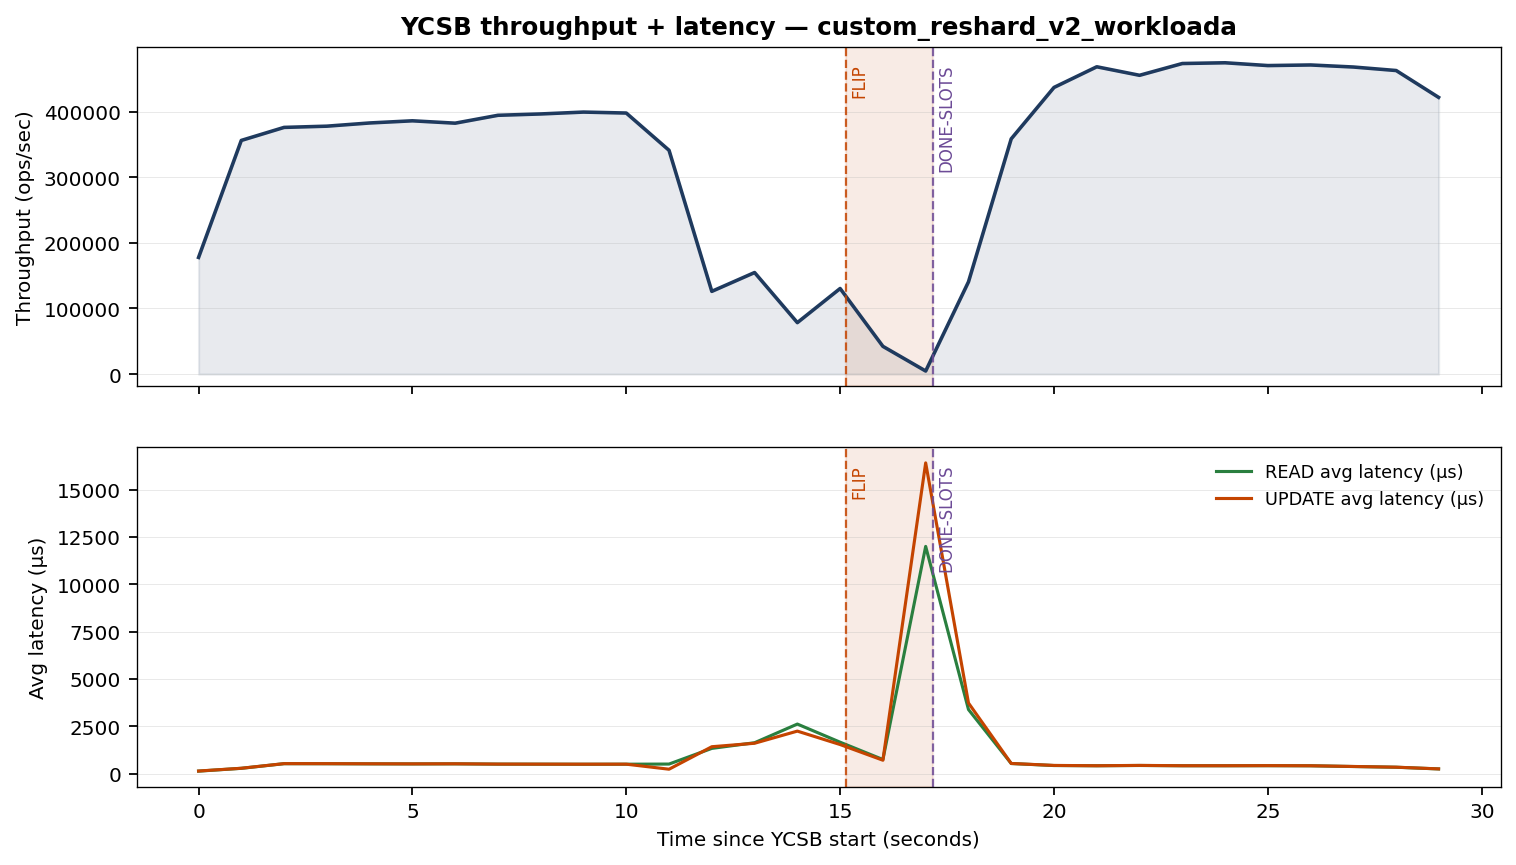
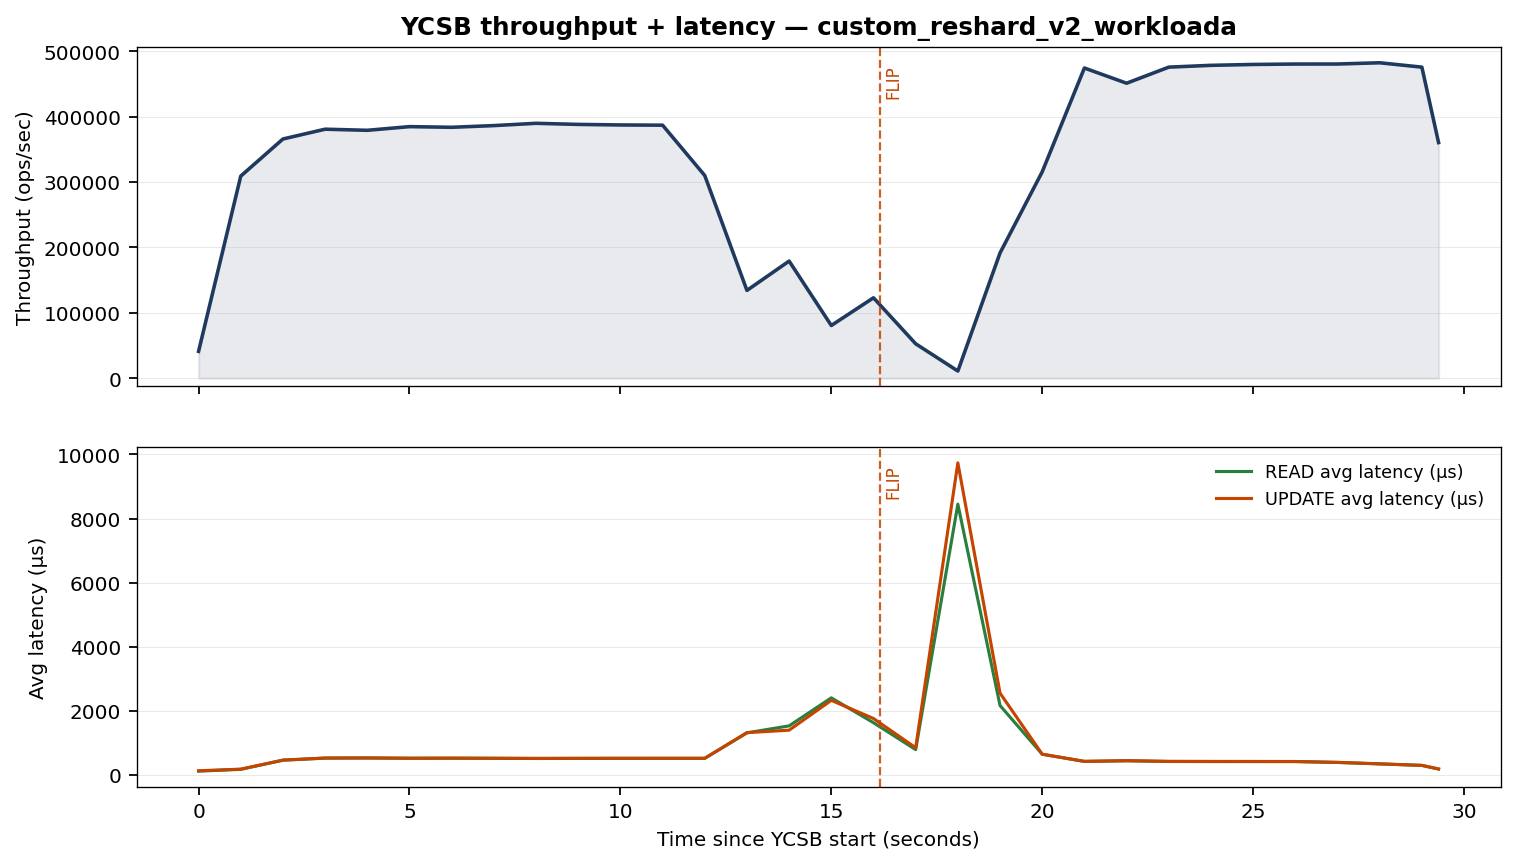
rdma_migration v2: chunked main-thread DONE-SLOTS apply via aeCreateTimeEvent
Replaces the synchronous rdmaDoneSlotsCommand with a chunked main-thread
implementation that interleaves dbAdd work with normal client serving:

  rdmaDoneSlotsCommand: parse slots -> push (db, slot_list) onto a
    pending list -> reply +OK immediately -> arm a 1 ms time event if
    one isn't already running. The source's reshardExecWorker no longer
    blocks waiting for the recipient to finish applying.

  migrationApplyTick (registered via aeCreateTimeEvent): pop the head
    pending item, process up to MIGRATION_SLOTS_PER_TICK=8 slots via
    rdmaApplySlot, then return MIGRATION_TICK_DELAY_MS=1 to reschedule.
    When the item is fully applied, free it and try the next. When the
    pending list drains, return AE_NOMORE to drop the timer.

Why chunked main-thread instead of pthread workers: the earlier 4-worker
attempt crashed at dict.c:892 'bucket != NULL' because Redis 8's kvstore
isn't thread-safe at the dict-resize / bucket level vs main-thread READ
paths (lookupKeyRead etc.) that aren't mutex-guarded. Chunked on the main
thread avoids all concurrency concerns -- the apply work runs on the
same thread that serves commands, just spread across many small bursts
with explicit yields back to the event loop in between.

Effect (smoke run, 10K records / 10M ops / workloada): the deep trough
during the migration band is narrower (~1s wide instead of ~3s); the
recipient continues to serve clients in 1-ms gaps between 8-slot apply
[…]

diff --git a/redis/src/cluster_rdma.c b/redis/src/cluster_rdma.c
@@ -510,35 +510,109 @@ static int rdmaApplySlot(redisDb *db, int slot) {
     return total_added;
 }
 
-/* RDMA DONE-SLOTS <slot> [<slot> ...]
+/* ====================================================================== *
+ *  RDMA DONE-SLOTS  (recipient side, chunked main-thread apply)
  *
- * Recipient side. For each slot in argv, walk the per-slot RDMA-registered
- * blocks (populated by an earlier REGISTER-BLOCK-SLOTS + RDMA writes from
- * the donor), parse the flat encoded entries, and dbAdd them into the local
- * keyspace.
+ *  Reverted from pthread workers because the kvstore isn't thread-safe at
+ *  the dict-resize / bucket level vs main-thread READ paths (crashed at
+ *  dict.c:892 'bucket != NULL'). Instead we keep everything on the main
+ *  thread BUT process the dbAdd work in small chunks via aeCreateTimeEvent
+ *  — each tick processes SLOTS_PER_TICK slots then yields back to the
+ *  event loop so client traffic is interleaved.
  *
- * NOTE: this is synchronous on the main thread for now. Previous threaded
- * version (4 worker threads with per-slot mutex) crashed the recipient at
- * dict.c:892 'bucket != NULL' because the kvstore isn't thread-safe at the
- * dict-resize / bucket level — main-thread READ paths (lookupKeyRead etc.)
- * aren't mutex-guarded and race with worker writes. Reverted to synchronous
- * apply; the right pattern for non-blocking apply on a single-threaded
- * Redis is main-thread chunked processing via beforeSleep / time events,
- * not pthread workers. Source-side rdmaReshardExecCommand stays threaded
- * because it only touches RDMA verbs (no kvstore). */
+ *  Concretely:
+ *    rdmaDoneSlotsCommand: parse slots → push (db, slot_list) onto a
+ *      pending list → reply +OK immediately. If no timer is running, arm
+ *      a 1 ms time event that calls migrationApplyTick.
+ *    migrationApplyTick: take the head pending item, call rdmaApplySlot
+ *      for the next SLOTS_PER_TICK slots, advance the per-item index.
+ *      When the item is exhausted, free it and try the next. When the list
+ *      is empty, return AE_NOMORE to drop the timer. Otherwise return a
+ *      small reschedule delay so the event loop has time to serve clients.
+ * ====================================================================== */
+
+typedef struct pendingApply {
+    redisDb *db;
+    int *slots;
+    int n_slots;
+    int idx;             /* next slot index to process */
+    long long applied;   /* running total added */
+} pendingApply;
+
+#define MIGRATION_SLOTS_PER_TICK 8     /* small enough to yield often,
+                                         large enough to make progress */
+#define MIGRATION_TICK_DELAY_MS 1      /* 1 ms reschedule; ample for the
+                                         event loop to drain client work */
+
+static list *pending_applies = NULL;
+static long long migration_apply_timer_id = -1;
+
+static int migrationApplyTick(struct aeEventLoop *el, long long id, void *clientData) {
+    UNUSED(el); UNUSED(id); UNUSED(clientData);
+
+    if (pending_applies == NULL || listLength(pending_applies) == 0) {
+        migration_apply_timer_id = -1;
+        return AE_NOMORE;
+    }
+
+    listNode *ln = listFirst(pending_applies);
+    pendingApply *p = listNodeValue(ln);
+
+    int processed = 0;
+    while (processed < MIGRATION_SLOTS_PER_TICK && p->idx < p->n_slots) {
+        p->applied += rdmaApplySlot(p->db, p->slots[p->idx]);
+        p->idx++;
+        processed++;
+    }
+
+    if (p->idx >= p->n_slots) {
+        serverLog(LL_NOTICE,
+            "RDMA DONE-SLOTS (chunked): finished %d slots, applied %lld keys total",
+            p->n_slots, p->applied);
+        zfree(p->slots);
+        zfree(p);
+        listDelNode(pending_applies, ln);
+    }
+
+    return MIGRATION_TICK_DELAY_MS;
+}
+
 void rdmaDoneSlotsCommand(client *c) {
-    long long total_added = 0;
-    for (int j = 2; j < c->argc; j++) {
-        long long slot;
-        if (getLongLongFromObject(c->argv[j], &slot) != C_OK ||
-            slot < 0 || slot >= CLUSTER_SLOTS) {
+    if (c->argc < 3) {
+        addReplyError(c, "DONE-SLOTS: at least one slot required");
+        return;
+    }
+    int n_slots = c->argc - 2;
+
+    pendingApply *p = zmalloc(sizeof(*p));
+    p->db = c->db;
+    p->n_slots = n_slots;
+    p->slots = zmalloc((size_t) n_slots * sizeof(int));
+    p->idx = 0;
+    p->applied = 0;
+    for (int j = 0; j < n_slots; j++) {
+        long long s;
+        if (getLongLongFromObject(c->argv[j + 2], &s) != C_OK ||
+            s < 0 || s >= CLUSTER_SLOTS) {
+            zfree(p->slots);
+            zfree(p);
             addReplyError(c, "slot id out of range");
             return;
         }
-        total_added += rdmaApplySlot(c->db, (int) slot);
+        p->slots[j] = (int) s;
     }
-    serverLog(LL_NOTICE, "RDMA DONE-SLOTS: applied %lld keys across %d slots",
-              total_added, c->argc - 2);
+
+    if (pending_applies == NULL) pending_applies = listCreate();
+    listAddNodeTail(pending_applies, p);
+
+    if (migration_apply_timer_id == -1) {
+        migration_apply_timer_id = aeCreateTimeEvent(server.el,
+            MIGRATION_TICK_DELAY_MS, migrationApplyTick, NULL, NULL);
+    }
+
+    serverLog(LL_NOTICE,
+        "RDMA DONE-SLOTS (chunked): queued %d slots; %lu in-flight item(s)",
+        n_slots, listLength(pending_applies));
     addReply(c, shared.ok);
 }
 